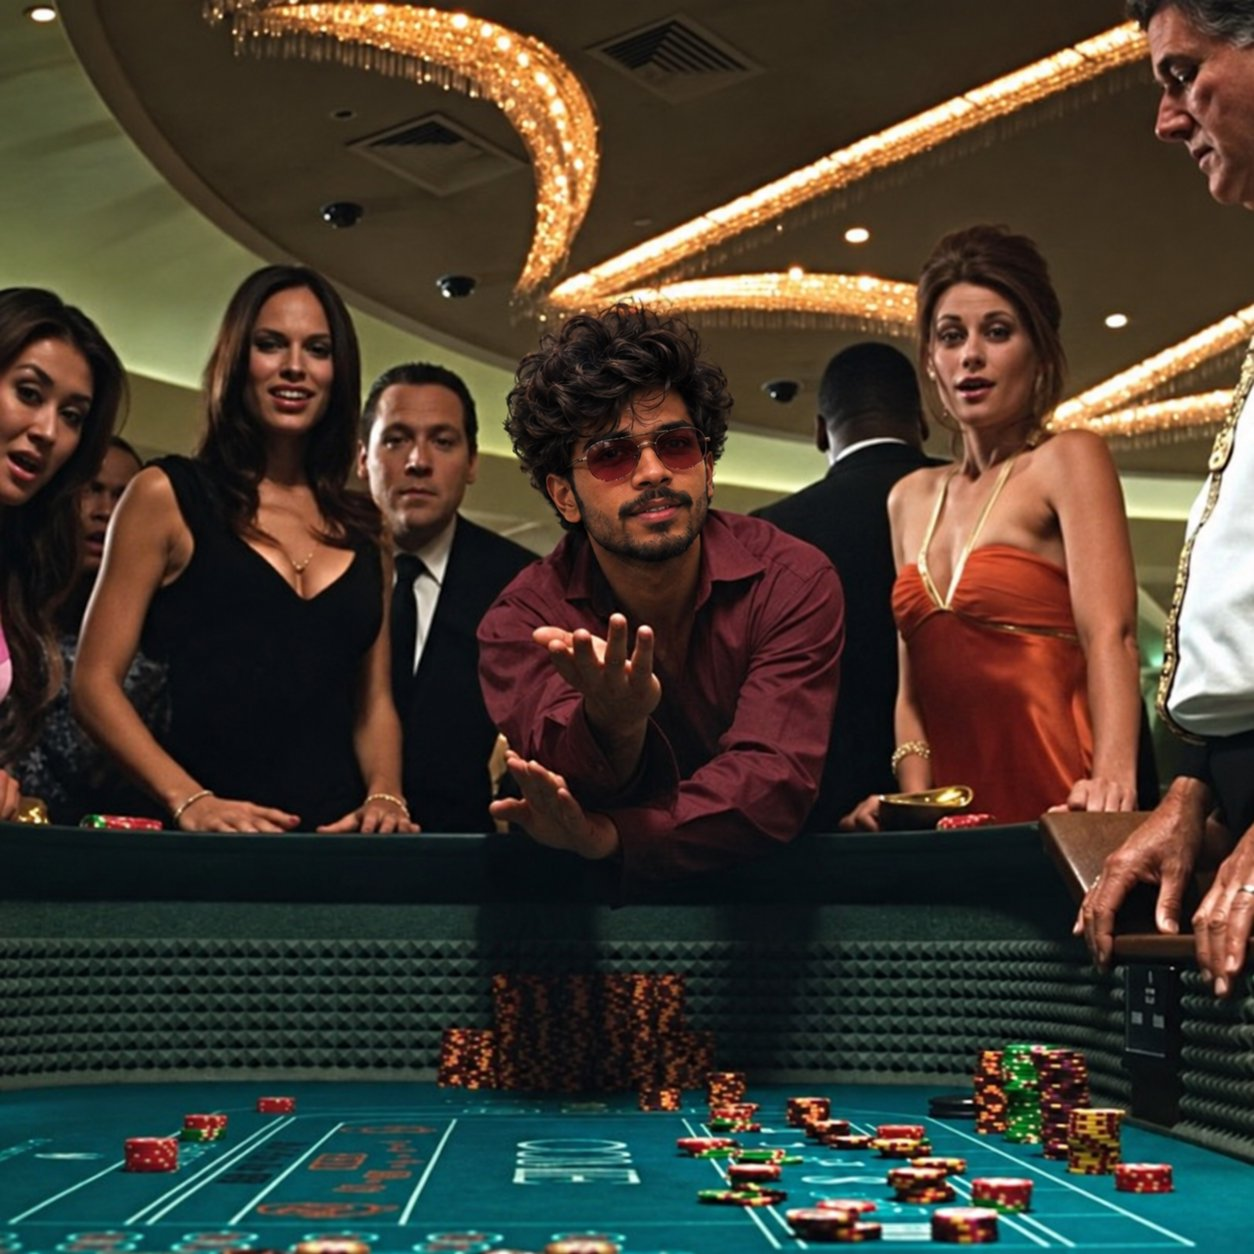
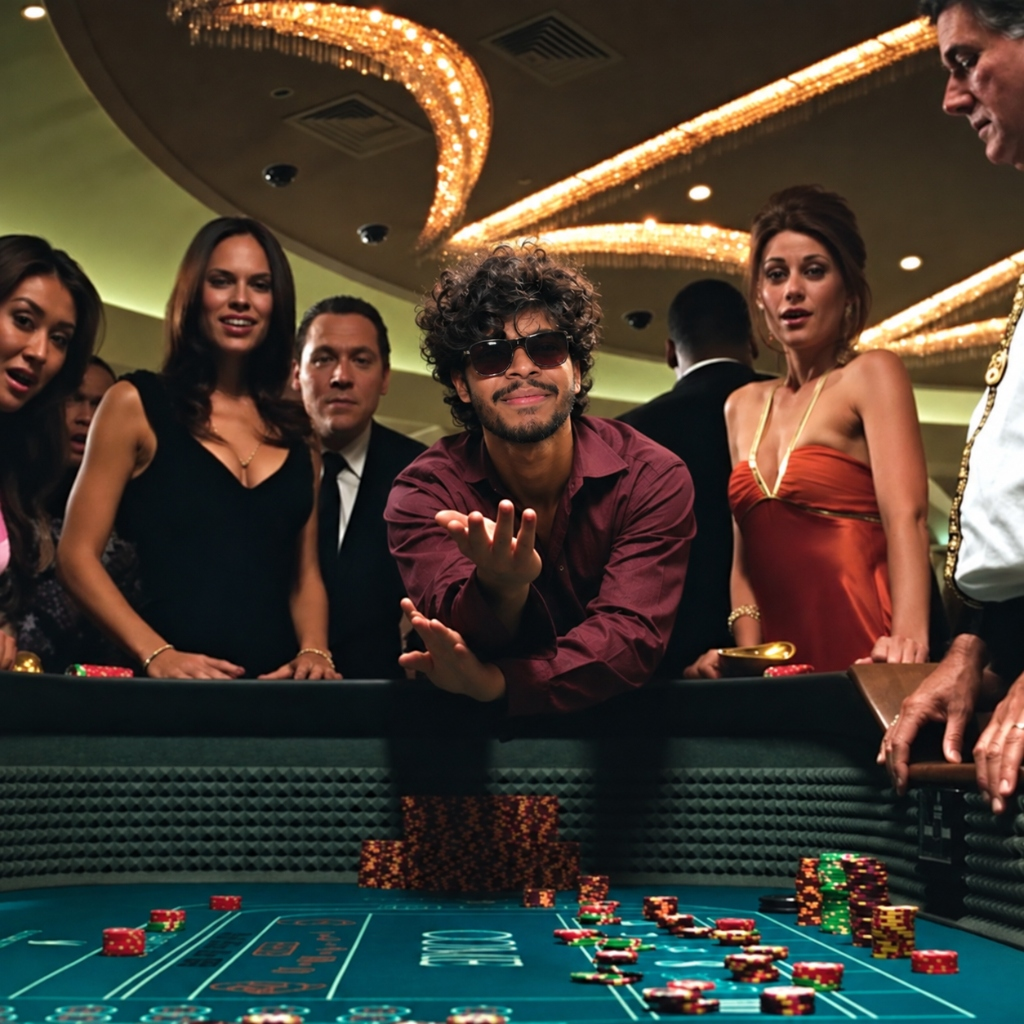
home page card position change and image update

diff --git a/src/pages/dashboard/HomePage.tsx b/src/pages/dashboard/HomePage.tsx
@@ -228,88 +228,51 @@ export const HomePage: React.FC = () => {
         </div>
       </div>
 
-      {/* SEMESTER 4 GRAND PRIZE BANNER — FULL MANDHI SPONSORED BY ABHINAV (VARKKALA/PARI) */}
-      <div className="relative overflow-hidden rounded-2xl sm:rounded-3xl bg-gradient-to-r from-black/70 via-[#190a10]/65 to-black/70 backdrop-blur-2xl border-2 border-amber-400/35 p-4 sm:p-5 lg:p-6 shadow-[0_0_35px_rgba(245,158,11,0.15)]">
-        <div className="grid grid-cols-1 md:grid-cols-12 gap-4 sm:gap-6 items-center">
-          <div className="md:col-span-4 lg:col-span-3 flex items-center justify-center">
-            <Link to="/leaderboard" className="relative w-full max-w-[210px] rounded-2xl overflow-hidden border-2 border-amber-400/40 shadow-xl group block">
-              <img
-                src="/assets/aistudio/Sponsored_Mandhi_Feast_Poster_e8b7457a.png"
-                alt="Sem 4 Grand Prize Mandhi"
-                className="w-full aspect-[4/3] sm:aspect-square object-cover transform group-hover:scale-105 transition-transform duration-700"
-              />
-              <div className="absolute inset-0 bg-gradient-to-t from-black/90 via-black/20 to-transparent pointer-events-none" />
-              <div className="absolute bottom-2 left-2 right-2 flex items-center justify-between text-[10px] font-mono">
-                <span className="text-amber-400 font-bold bg-black/85 px-2 py-0.5 rounded border border-amber-400/30">
-                  🍗 FULL MANDHI
-                </span>
-                <span className="text-emerald-400 font-bold bg-black/85 px-2 py-0.5 rounded border border-emerald-400/30">
-                  TOP 4
-                </span>
-              </div>
-            </Link>
+      {/* FEATURED ARENA & MANDHI GRAND PRIZE SHOWCASE */}
+      <div className="grid grid-cols-1 lg:grid-cols-12 gap-5 items-stretch">
+        {/* MAIN FEATURED ARENA: Roll The Dice Showdown with Merged Craps Table Image */}
+        <div className="lg:col-span-7 xl:col-span-8 relative overflow-hidden rounded-3xl bg-gradient-to-r from-[#0d0408] via-[#1f0b15] via-[#180811] to-[#0f040a] backdrop-blur-2xl border border-red-500/25 shadow-2xl flex flex-col justify-between group min-h-[340px]">
+          {/* Ambient image glow extending across the entire card for color uniformity */}
+          <div className="absolute inset-0 overflow-hidden pointer-events-none">
+            <img
+              src="/images/craps-table-arena.jpg"
+              alt=""
+              className="w-full h-full object-cover object-center filter blur-3xl scale-125 opacity-35 sm:opacity-45"
+            />
+            {/* Rich gradient overlay that smoothly darkens the blurred image into deep wine, mahogany, and amber */}
+            <div className="absolute inset-0 bg-gradient-to-r from-transparent via-[#1a0712]/75 via-[#16060f]/85 to-[#0d0408]/95" />
+            {/* Ambient Chandelier & Champagne Glow extending into the top right */}
+            <div className="absolute top-0 right-0 w-[75%] h-full bg-[radial-gradient(ellipse_at_top_right,rgba(245,158,11,0.22)_0%,rgba(190,24,93,0.15)_35%,transparent_70%)]" />
+            {/* Subtle emerald craps felt reflection in the bottom right corner */}
+            <div className="absolute bottom-0 right-0 w-[50%] h-[60%] bg-[radial-gradient(ellipse_at_bottom_right,rgba(16,185,129,0.08)_0%,transparent_70%)]" />
           </div>
 
-          <div className="md:col-span-8 lg:col-span-9 space-y-2">
+          {/* Crisp craps table photo on the left, seamlessly blending into the right-side gradient */}
+          <div className="absolute inset-y-0 left-0 w-full sm:w-3/5 lg:w-[58%] overflow-hidden pointer-events-none">
+            <img
+              src="/images/craps-table-arena.jpg"
+              alt="Live Craps Arena"
+              className="w-full h-full object-cover object-center sm:object-left-top transform group-hover:scale-105 transition-transform duration-1000 opacity-85 sm:opacity-95"
+            />
+            {/* Soft gradient blend carrying the image's lighting into the extended right gradient */}
+            <div className="absolute inset-0 bg-gradient-to-r from-black/15 via-transparent via-[#1a0712]/50 to-[#1a0712] hidden sm:block" />
+            <div className="absolute inset-0 bg-gradient-to-t from-[#14060d] via-black/40 to-transparent sm:hidden" />
+          </div>
+
+          {/* Floating Arena Badges */}
+          <div className="relative z-10 p-5 sm:p-6 pb-0 flex items-center gap-2">
+            <span className="text-[10px] font-mono font-bold text-amber-400 bg-black/85 px-2.5 py-1 rounded-lg border border-amber-400/30 backdrop-blur-md shadow-md flex items-center gap-1.5">
+              <span className="w-1.5 h-1.5 rounded-full bg-amber-400 animate-pulse" />
+              FEATURED ARENA
+            </span>
+            <span className="text-[10px] font-mono font-bold text-emerald-400 bg-black/85 px-2.5 py-1 rounded-lg border border-emerald-400/30 backdrop-blur-md shadow-md">
+              LIVE ACTION
+            </span>
+          </div>
+
+          {/* Content pushed to the right side on sm/md/lg screens */}
+          <div className="relative z-10 sm:ml-auto sm:w-[58%] lg:w-[55%] xl:w-[50%] p-5 sm:p-6 pt-4 sm:pt-6 space-y-3">
             <div className="flex items-center gap-2 flex-wrap">
-              <span className="text-[10px] sm:text-xs font-mono font-bold text-amber-400 uppercase tracking-wider flex items-center gap-1.5 bg-amber-400/10 px-2.5 py-0.5 rounded-full border border-amber-400/25">
-                <Crown className="w-3.5 h-3.5 text-amber-400 fill-amber-400" />
-                <span>Semester 4 Grand Prize</span>
-              </span>
-              <span className="text-white/20">•</span>
-              <span className="text-xs text-slate-300">
-                Sponsored by <strong className="text-amber-400">Abhinav (Varkkala / Pari)</strong>
-              </span>
-            </div>
-
-            <h2 className="font-display font-black text-lg sm:text-xl text-white">
-              Race for the Grand Feast: <span className="gold-shimmer-text">Full Mandhi for Top 4</span>
-            </h2>
-
-            <p className="text-xs sm:text-sm text-slate-300 leading-relaxed max-w-xl">
-              At the final wrap-up of Semester 4, the top 4 contenders holding the highest points will be treated to a full authentic chicken Mandhi platter with fragrant rice, dips, and sides!
-            </p>
-
-            <div className="flex items-center gap-3 pt-1 flex-wrap">
-              <Link
-                to="/leaderboard"
-                className="vip-gold-btn px-4 py-2 text-xs font-bold flex items-center gap-1.5 whitespace-nowrap cursor-pointer shadow-gold-glow"
-              >
-                <span>🍗 Check Mandhi Cutoff Standings</span>
-                <ArrowRight className="w-3.5 h-3.5" />
-              </Link>
-              <span className="text-[11px] font-mono text-emerald-400 bg-emerald-500/10 px-2.5 py-1 rounded-xl border border-emerald-500/20">
-                Top 4 MCA Students Qualify
-              </span>
-            </div>
-          </div>
-        </div>
-      </div>
-
-      {/* FEATURED LIVE ARENA SHOWDOWN (dice-roll-showdown.jpg) */}
-      <div className="relative overflow-hidden rounded-3xl bg-gradient-to-r from-black/45 via-[#180a0f]/40 to-black/45 backdrop-blur-2xl border border-red-500/25 p-5 sm:p-6 shadow-xl">
-        <div className="grid grid-cols-1 md:grid-cols-12 gap-6 items-center">
-          <div className="md:col-span-5 lg:col-span-4 relative flex items-center justify-center">
-            <div className="relative w-full max-w-[260px] aspect-square rounded-2xl overflow-hidden border border-white/10 group shadow-xl">
-              <img
-                src="/images/dice-roll-showdown.jpg"
-                alt="Live Craps Arena"
-                className="w-full h-full object-cover object-center transform group-hover:scale-105 transition-transform duration-700"
-              />
-              <div className="absolute inset-0 bg-gradient-to-t from-[#0C0D13]/70 via-transparent to-transparent pointer-events-none" />
-              <div className="absolute bottom-2.5 left-2.5 right-2.5 flex items-center justify-between text-[10px] font-mono">
-                <span className="text-amber-400 font-bold bg-[#07080B]/90 px-2.5 py-1 rounded-lg border border-amber-400/20 backdrop-blur-md">
-                  FEATURED ARENA
-                </span>
-                <span className="text-emerald-400 font-bold bg-[#07080B]/90 px-2.5 py-1 rounded-lg border border-emerald-400/20 backdrop-blur-md">
-                  LIVE ACTION
-                </span>
-              </div>
-            </div>
-          </div>
-
-          <div className="md:col-span-7 lg:col-span-8 space-y-2.5">
-            <div className="flex items-center gap-2">
               <span className="text-xs font-mono font-bold text-amber-400 uppercase tracking-wider flex items-center gap-1.5">
                 <Flame className="w-3.5 h-3.5 text-amber-400" />
                 Campus Main Event
@@ -317,27 +280,93 @@ export const HomePage: React.FC = () => {
               <span className="text-white/20">•</span>
               <span className="text-xs text-slate-400 font-medium">All 53 Classmates Eligible</span>
             </div>
-            <h2 className="font-display font-black text-xl lg:text-2xl text-white">
+
+            <h2 className="font-display font-black text-xl sm:text-2xl xl:text-3xl text-white leading-tight">
               Roll The Dice on Tomorrow's Big Outcomes
             </h2>
-            <p className="text-xs lg:text-sm text-slate-400 leading-relaxed max-w-xl">
+
+            <p className="text-xs sm:text-sm text-slate-300/90 leading-relaxed">
               Turn everyday classroom banter into high-stakes pari-mutuel showdowns. Predict lab surprises, sports finals, or seminar dates before the pool locks.
             </p>
-            <div className="flex items-center gap-3 pt-1">
+
+            <div className="flex items-center gap-3 pt-2 flex-wrap">
               <Link
                 to="/create"
-                className="vip-gold-btn px-4 py-2 text-xs font-extrabold flex items-center gap-1.5 cursor-pointer"
+                className="vip-gold-btn px-4 py-2.5 text-xs font-extrabold flex items-center gap-1.5 cursor-pointer shadow-gold-glow"
               >
                 <PlusCircle className="w-3.5 h-3.5 text-black" />
                 <span>Launch Prediction</span>
               </Link>
               <Link
                 to="/discover"
-                className="px-4 py-2 rounded-xl bg-white/5 hover:bg-white/10 text-white border border-white/10 text-xs font-semibold transition-all"
+                className="px-4 py-2.5 rounded-xl bg-white/5 hover:bg-white/10 text-white border border-white/10 text-xs font-semibold transition-all backdrop-blur-sm"
               >
                 Explore Active Pools
               </Link>
             </div>
+          </div>
+        </div>
+
+        {/* SEMESTER 4 GRAND PRIZE MANDHI SIDECARD */}
+        <div className="lg:col-span-5 xl:col-span-4 relative overflow-hidden rounded-3xl bg-gradient-to-b from-[#1d0d14]/85 via-black/85 to-[#12070b]/90 backdrop-blur-2xl border-2 border-amber-400/35 p-5 sm:p-6 shadow-[0_0_35px_rgba(245,158,11,0.15)] flex flex-col justify-between group hover:border-amber-400/60 transition-all">
+          <div className="absolute top-0 right-0 w-48 h-48 bg-amber-500/10 blur-[70px] rounded-full pointer-events-none" />
+
+          <div className="space-y-3 relative z-10">
+            {/* Header Badges */}
+            <div className="flex items-center justify-between gap-2 flex-wrap">
+              <span className="text-[10px] sm:text-xs font-mono font-bold text-amber-400 uppercase tracking-wider flex items-center gap-1.5 bg-amber-400/10 px-2.5 py-0.5 rounded-full border border-amber-400/25">
+                <Crown className="w-3.5 h-3.5 text-amber-400 fill-amber-400" />
+                <span>Semester 4 Grand Prize</span>
+              </span>
+              <span className="text-[10px] font-mono text-emerald-400 bg-emerald-500/10 px-2 py-0.5 rounded-md border border-emerald-500/20">
+                TOP 4 QUALIFY
+              </span>
+            </div>
+
+            {/* Poster Preview */}
+            <Link
+              to="/leaderboard"
+              className="relative w-full h-36 sm:h-40 rounded-2xl overflow-hidden border border-amber-400/30 group/img block shadow-lg"
+            >
+              <img
+                src="/assets/aistudio/Sponsored_Mandhi_Feast_Poster_e8b7457a.png"
+                alt="Sem 4 Grand Prize Mandhi"
+                className="w-full h-full object-cover object-center transform group-hover/img:scale-105 transition-transform duration-700"
+              />
+              <div className="absolute inset-0 bg-gradient-to-t from-black/90 via-black/25 to-transparent pointer-events-none" />
+              <div className="absolute bottom-2 left-2 right-2 flex items-center justify-between text-[10px] font-mono">
+                <span className="text-amber-400 font-bold bg-black/85 px-2 py-0.5 rounded border border-amber-400/30 backdrop-blur-sm">
+                  🍗 FULL MANDHI
+                </span>
+                <span className="text-emerald-400 font-bold bg-black/85 px-2 py-0.5 rounded border border-emerald-400/30 backdrop-blur-sm">
+                  TOP 4 SEATS
+                </span>
+              </div>
+            </Link>
+
+            {/* Sponsor & Title */}
+            <div>
+              <p className="text-[11px] text-slate-300 mb-1">
+                Sponsored by <strong className="text-amber-400 font-bold">Abhinav (Varkkala / Pari)</strong>
+              </p>
+              <h3 className="font-display font-black text-base sm:text-lg text-white leading-snug">
+                Race for the Grand Feast: <span className="gold-shimmer-text">Full Mandhi for Top 4</span>
+              </h3>
+              <p className="text-xs text-slate-300/85 leading-relaxed mt-1 line-clamp-3">
+                At the final wrap-up of Semester 4, the top 4 contenders holding the highest points will be treated to a full authentic chicken Mandhi platter with fragrant rice, dips, and sides!
+              </p>
+            </div>
+          </div>
+
+          {/* Action Link */}
+          <div className="pt-3 relative z-10">
+            <Link
+              to="/leaderboard"
+              className="vip-gold-btn w-full py-2.5 text-xs font-bold flex items-center justify-center gap-1.5 whitespace-nowrap cursor-pointer shadow-gold-glow"
+            >
+              <span>🍗 Check Mandhi Cutoff Standings</span>
+              <ArrowRight className="w-3.5 h-3.5" />
+            </Link>
           </div>
         </div>
       </div>
